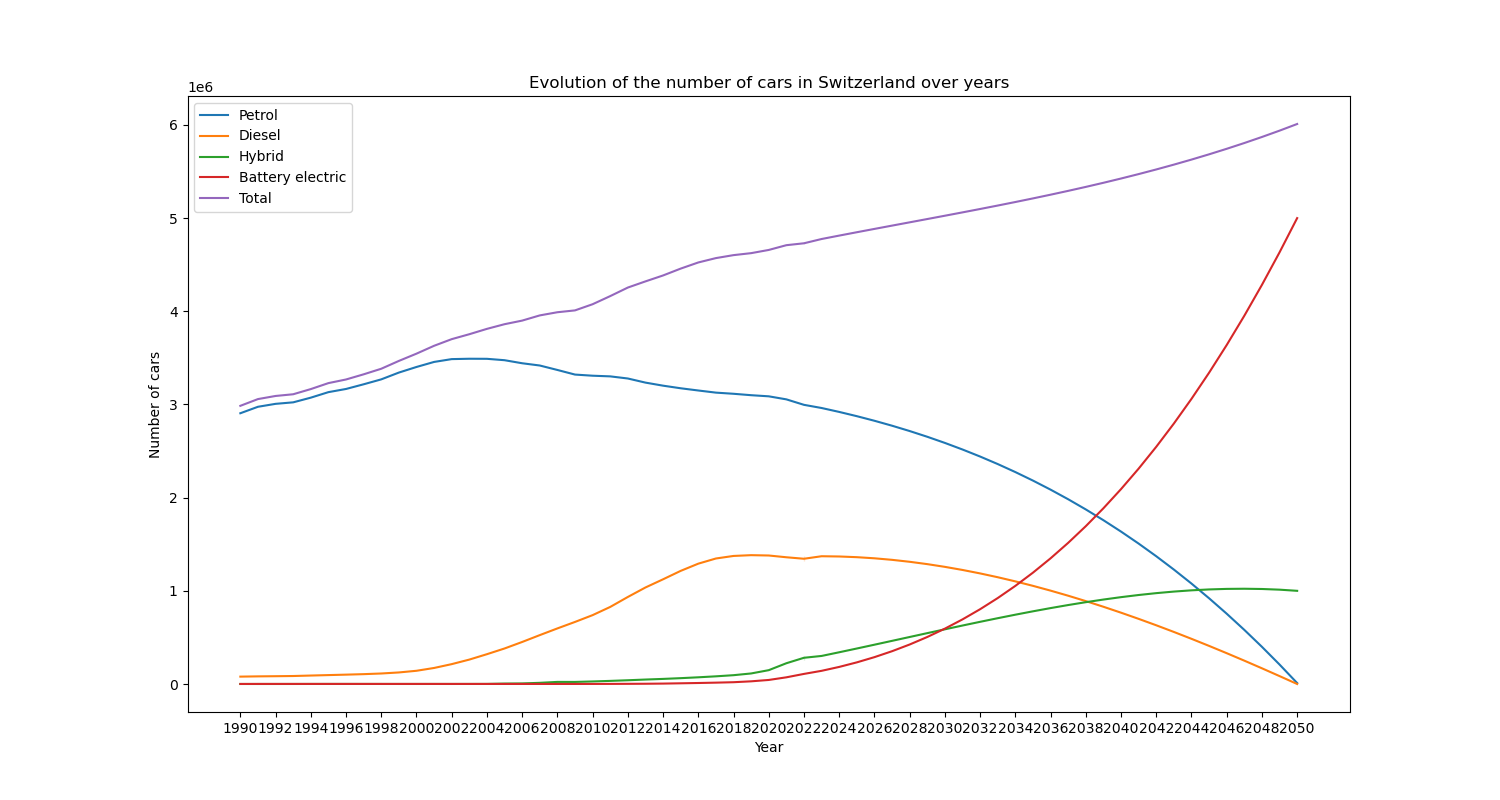
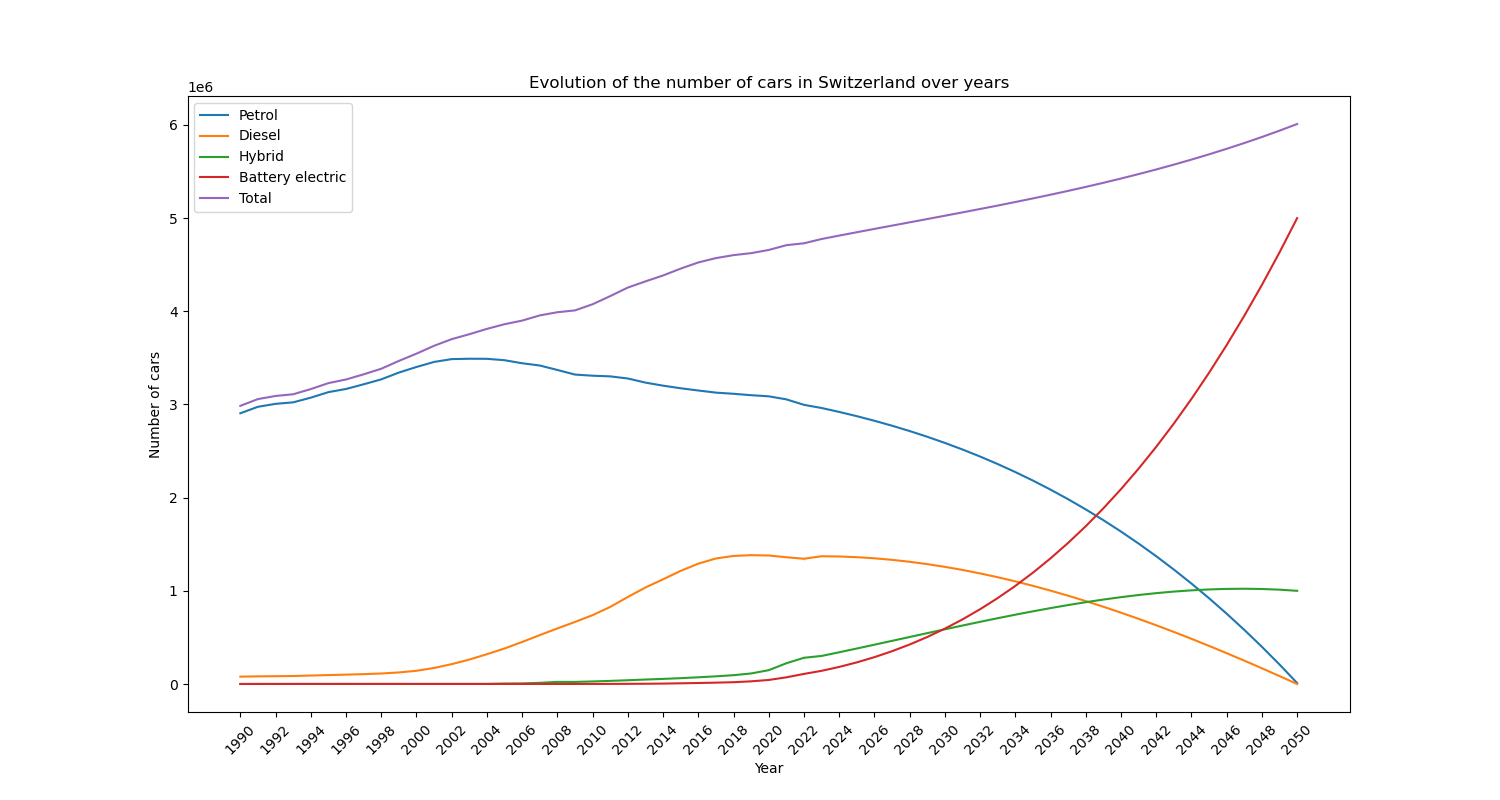
working version for fine-tune flexibility

Changed region(s): [[0.1533, 0.9062, 0.8893, 0.9688]]

diff --git a/main.py b/main.py
@@ -23,27 +23,31 @@ from src.utils import visualize_kwh_delivered, visualize_hourly_distribution, in
 from src.model_charging import model_charging_normal, model_charging_flexibility
 
 warnings.filterwarnings("ignore")
+plt.ioff()
 
 ## This part is used to forecast the number of cars in the future.
 
 # data on EV adoption from: https://www.bfs.admin.ch/bfs/en/home/statistics/mobility-transport/transport-infrastructure-vehicles/vehicles/road-vehicles-stock-level-motorisation.html
 # Decide the consrtaint for the number of different vehicles present in 2050
+print("##############################################################################################################################################################################")
+print("Loading historical data on EV adoption...")
 
 data = pd.read_csv('data/ev_data.csv', encoding='ISO-8859-1')
 
 data_ev = process_data(data)
 
+print("Forecasting the number of EV in Switzerland up to 2050...")
 data_ev_forecast = forecast_number_car(data_ev, year_constraint=2050, petrol_constraint=10000, diesel_constraint=0 , hybrid_constraint = 1e6, battery_elecrtic_constraint=5e6, pol_degree=3, weights = "exp").get_df()
 
-# plot_evolution(data_ev_forecast)
-# save_plot(data_ev_forecast, "plots/evolution_number_car.png")
+plot_evolution(data_ev_forecast)
+save_plot(data_ev_forecast, "plots/evolution_number_car.png")
 
 
 print("##############################################################################################################################################################################")
 
 data_charging, event_counts = load_data()
-visualize_kwh_delivered(data_charging)
-visualize_hourly_distribution(event_counts)
+# visualize_kwh_delivered(data_charging)
+# visualize_hourly_distribution(event_counts)
 
 year_simulation = int(input("Enter the year of simulation: "))
 
@@ -62,7 +66,7 @@ print("#########################################################################
 
 max_power = int(input("Enter the maximum power consumption on the grid in Mwh: "))
 df_summed_flex, total_energy_needed_flex = model_charging_flexibility(df_car, df_simulation, df_summed, car_number_simulated, max_power,time_regulation="00:00", quantity_regulation = 0, duration_regulation = 0, type_regulation = None, ratio = ratio)
-visualize_flex_charging(df_summed_flex, car_number_real, year_simulation, total_energy_needed_flex, ratio)
+visualize_flex_charging(df_summed_flex, car_number_real, year_simulation, total_energy_needed_flex, ratio, "plots/flex_charging_{}.png".format(max_power))
 
 print("##############################################################################################################################################################################")
 
@@ -70,9 +74,7 @@ time_regulation = str(input("Enter the time when regulation is needed: "))
 quantity_regulation = int(input("Enter the quantity of energy regulation needed in Mwh: "))
 duration_regulation = int(input("Enter the duration of the regulation in minutes: "))
 type_regulation = str(input("Enter the type of regulation (up or down): "))
-print("{} regulation of {} Mwh needed for {} minutes at {}".format(type_regulation, quantity_regulation, duration_regulation, time_regulation))
+print("Request: {} regulation of {} Mwh needed for {} minutes at {}".format(type_regulation, quantity_regulation, duration_regulation, time_regulation))
 
-df_summed_flex, total_energy_needed_flex = model_charging_flexibility(df_car, df_simulation, df_summed, car_number_simulated, max_power,time_regulation, quantity_regulation, duration_regulation, type_regulation, ratio = ratio)
-visualize_flex_charging(df_summed_flex, car_number_real, year_simulation, total_energy_needed_flex, ratio)
-
-
+df_summed_flex, total_energy_needed_flex = model_charging_flexibility(df_car, df_simulation, df_summed_flex, car_number_simulated, max_power,time_regulation, quantity_regulation, duration_regulation, type_regulation, ratio = ratio)
+visualize_flex_charging(df_summed_flex, car_number_real, year_simulation, total_energy_needed_flex, ratio, "plots/flex_charging_{}_{}_{}_{}.png".format(time_regulation, quantity_regulation, duration_regulation, type_regulation))

diff --git a/src/model_charging.py b/src/model_charging.py
@@ -142,16 +142,12 @@ def model_charging_normal(df_car,df_simulation, car_number, ratio):
     columns_to_multiply = ["down", "total"]
     df_summed_modif[columns_to_multiply] = df_summed_modif[columns_to_multiply].apply(lambda x: (x * ratio) / 1000)
     total_energy_needed = df_summed_modif['total'].sum()
-    print("total energy needed: {} Mwh".format(total_energy_needed))
-
-    # # multiply by 4 because we have 15 minutes interval to get the power in kW
-    # columns_to_multiply = ["down", "total"]
-    # df_summed[columns_to_multiply] = df_summed[columns_to_multiply].apply(lambda x: x * 4)
+    print("total energy needed over the day: {} Mwh".format(round(total_energy_needed,2)))
 
     return df_summed, total_energy_needed
 
 
-def model_charging_flexibility(df_car, df_simulation, df_normal, car_number, max_power,time_regulation, quantity_regulation, duration_regulation, type_regulation, ratio):
+def model_charging_flexibility(df_car, df_simulation, df_normal, car_number, max_pow,time_regulation, quantity_regulation, duration_regulation, type_regulation, ratio):
     from src.utils import generate_time_intervals
     """
     This function model the charging of an EV with a given power and a given required energy when just charging when plugged in
@@ -172,7 +168,7 @@ def model_charging_flexibility(df_car, df_simulation, df_normal, car_number, max
     df_prov = df_simulation.copy()
     df = df_car.copy()
     car_rows = {car: df_prov.loc[df_prov['car'] == car] for car in range(1, car_number+1)}
-    max_power = max_power * (1000 / (ratio * 4))
+    # max_power = max_pow * (1000 / (ratio * 4))
     quantity_regulation = quantity_regulation * (1000 / (ratio * 4))
     # print("max_power: {}".format(max_power))
 
@@ -183,6 +179,7 @@ def model_charging_flexibility(df_car, df_simulation, df_normal, car_number, max
         # print("time_interval: {}".format(time_interval))
 
         if time_interval in list_regulation:
+            # print("time_interval: {}".format(time_interval))
             total_power = df_normal.loc[time_interval]["total"]
             # print("total_power: {}".format(total_power))
             if type_regulation == "down":
@@ -191,6 +188,8 @@ def model_charging_flexibility(df_car, df_simulation, df_normal, car_number, max
             elif type_regulation == "up":
                 max_power = total_power + quantity_regulation
                 # print("max_power: {}".format(max_power))
+        else:
+            max_power = max_pow * (1000 / (ratio * 4))
 
         for car in range(1, car_number+1):
             row = car_rows[car]
@@ -244,6 +243,6 @@ def model_charging_flexibility(df_car, df_simulation, df_normal, car_number, max
     columns_to_multiply = ["up", "down", "total"]
     df_summed_modif[columns_to_multiply] = df_summed_modif[columns_to_multiply].apply(lambda x: (x * ratio) / 1000)
     total_energy_needed = df_summed_modif['total'].sum()
-    print("total energy needed: {} Mwh".format(total_energy_needed))
+    print("total energy needed over the day: {} Mwh".format(round(total_energy_needed,2)))
 
     return df_summed, total_energy_needed

diff --git a/src/utils.py b/src/utils.py
@@ -27,9 +27,9 @@ def visualize_kwh_delivered(df):
     plt.xlabel('Number of sessions')
     plt.ylabel('kwh delivered')
     plt.title('Distribution of kwh delivered over sessions')
-    # plt.savefig('plots/distribution_kwh_delivered.png')
+    plt.savefig('plots/distribution_kwh_delivered.png')
     # plt.show()
-
+    plt.close()
 
 def visualize_hourly_distribution(df):
     plt.figure(figsize=(15, 8))
@@ -45,8 +45,9 @@ def visualize_hourly_distribution(df):
     labels = ax.get_xticks()[::N]
     ax.set_xticks(labels)
     ax.set_xticklabels(df['15_min_interval'][::N], rotation=45)
-    # plt.savefig('plots/probability_distribution_charging_sessions.png')
+    plt.savefig('plots/probability_distribution_charging_sessions.png')
     # plt.show()
+    plt.close()
 
 def round_time_15(original_time: datetime) -> datetime:
     # Calculate the number of minutes to the next quarter hour
@@ -149,9 +150,10 @@ def visualize_normal_charging(df_summed, car_number, year_simulation, total_ener
     plt.savefig('plots/normal_charging.png')
     plt.show()
 
-def visualize_flex_charging(df, car_number, year_simulation, total_energy_needed, ratio):
+def visualize_flex_charging(df_summed, car_number, year_simulation, total_energy_needed, ratio, path):
     plt.figure(figsize=(16, 6))
 
+    df = df_summed.copy()
     columns_to_multiply = ["up","down","total"]
     df[columns_to_multiply] = df[columns_to_multiply].apply(lambda x: (x * ratio * 4) / 1000)
     # Plot "total", "up", and "down"
@@ -165,7 +167,7 @@ def visualize_flex_charging(df, car_number, year_simulation, total_energy_needed
 
 
     # Show the plot
-    plt.savefig('plots/flex_charging.png')
+    plt.savefig(path)
     plt.show()
 
 def generate_time_intervals(start_time, num_minutes):

diff --git a/src/forecast_number_car.py b/src/forecast_number_car.py
@@ -106,7 +106,7 @@ def plot_evolution(df: pd.core.frame.DataFrame) -> None:
     x_tick_labels = [str(year) for year in x_ticks]
     
     plt.xticks(ticks=x_ticks, labels=x_tick_labels)
-    
+    plt.xticks(ticks=x_ticks, labels=x_tick_labels, rotation=45)
 
     plt.legend()
     plt.xlabel('Year')
@@ -129,10 +129,11 @@ def save_plot(df: pd.core.frame.DataFrame, save_path = "plots") -> None:
     x_tick_labels = [str(year) for year in x_ticks]
     
     plt.xticks(ticks=x_ticks, labels=x_tick_labels)
-    
+    plt.xticks(ticks=x_ticks, labels=x_tick_labels, rotation=45)
 
     plt.legend()
     plt.xlabel('Year')
     plt.ylabel('Number of cars')
     plt.title('Evolution of the number of cars in Switzerland over years')
     plt.savefig(save_path)
+    plt.close()
